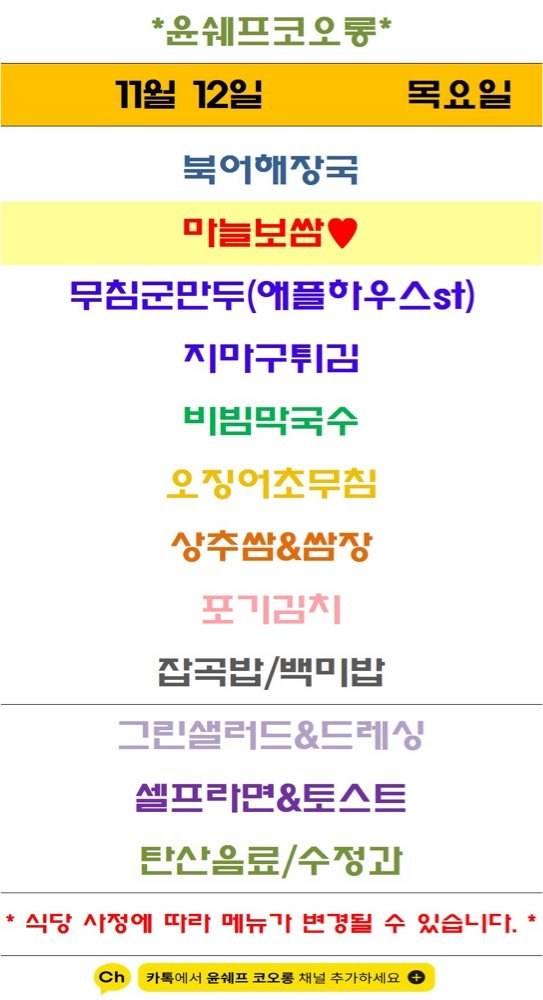
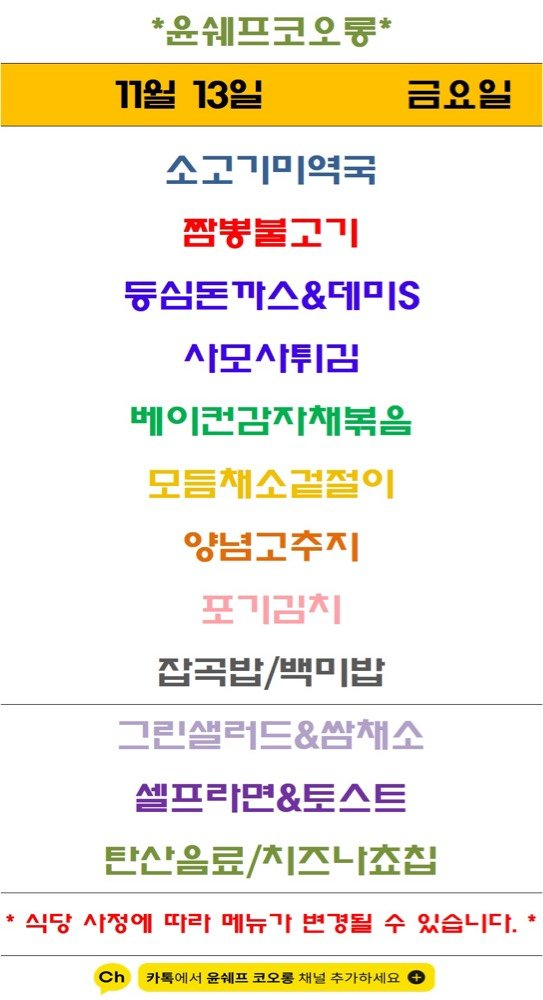
Update menu board assets

diff --git a/guro-menu/index.html b/guro-menu/index.html
@@ -32,7 +32,7 @@
   </header>
   <section class="meta">
     <div><small>기준 날짜</small><strong>2026년 11월 13일 금요일</strong></div>
-    <div><small>최종 갱신</small><strong>2026-11-13 09:18:51</strong></div>
+    <div><small>최종 갱신</small><strong>2026-11-13 09:33:05</strong></div>
     <div><small>등록 식당</small><strong>5개</strong></div>
   </section>
   <div class="notice">공개 카카오 채널의 메뉴 이미지를 자동 수집하고 OCR로 정리합니다. 텍스트에 오타가 있을 수 있으니 식단 이미지를 함께 확인해 주세요.</div>
@@ -103,8 +103,8 @@
           <a class="channel" href="https://pf.kakao.com/_Xxhxkhs" target="_blank" rel="noopener">원본 채널</a>
         </div>
         <img class="menu-image" src="./images/yoon-chef-kolon.png" alt="윤쉐프 코오롱 식단 이미지" loading="lazy">
-        <p class="message">최신 공개 식단 이미지의 텍스트입니다. 날짜는 원본 이미지를 확인해 주세요.</p>
-        <ul><li>북어해장국</li><li>마늘보쌈</li><li>지마구튀김</li><li>비빔막국수</li><li>2 ㄱㄱ 여도 oO</li><li>잡곡밥/백미밥</li><li>그린샐러드&amp;드레싱</li><li>셀프라면&amp;토스트</li><li>탄산음료/수정과</li></ul>
+        
+        <ul><li>소고기미역국</li><li>등심돈까쓰&amp;데미6</li><li>사모사튀긴</li><li>베이컨감자채볶음</li><li>양념고주지</li><li>잡곡밥/벽미밥</li><li>그린설러드&amp;쌈채소</li><li>셀프라면&amp;토스트</li><li>탄산음료/치즈나죠칩</li></ul>
       </article>
   </section>
   <section class="seo" aria-label="검색 정보">한신IT타워 구내식당 자연푸드 구내식당 더이츠푸드 벽산더이룸 윤쉐프 코오롱 한신IT타워 벽산디지털밸리7차 대륭포스트타워1차 벽산디지털밸리1차 코오롱싸이언스밸리1차 서울 구로구 디지털로 272 한신IT타워 지하1층 서울 구로구 디지털로33길 50 벽산디지털밸리7차 지하1층 서울 구로구 디지털로 288 대륭포스트타워1차 지하1층 서울 구로구 디지털로27길 24 벽산디지털밸리1차 지하1층 서울 구로구 디지털로34길 43 코오롱싸이언스밸리1차 지하1층</section>

diff --git a/menu-today/index.html b/menu-today/index.html
@@ -209,7 +209,7 @@
 
     <section class="meta-bar">
       <div class="meta-card"><div class="meta-label">기준 날짜</div><div class="meta-value">2026년 11월 13일 금요일</div></div>
-      <div class="meta-card"><div class="meta-label">최종 가져온 시간</div><div class="meta-value">2026-11-13 09:18:38</div></div>
+      <div class="meta-card"><div class="meta-label">최종 가져온 시간</div><div class="meta-value">2026-11-13 09:32:54</div></div>
       <div class="meta-card"><div class="meta-label">확인 완료</div><div class="meta-value">9개 식당</div></div>
       <div class="meta-card"><div class="meta-label">준비중</div><div class="meta-value">3개 채널</div></div>
     </section>
